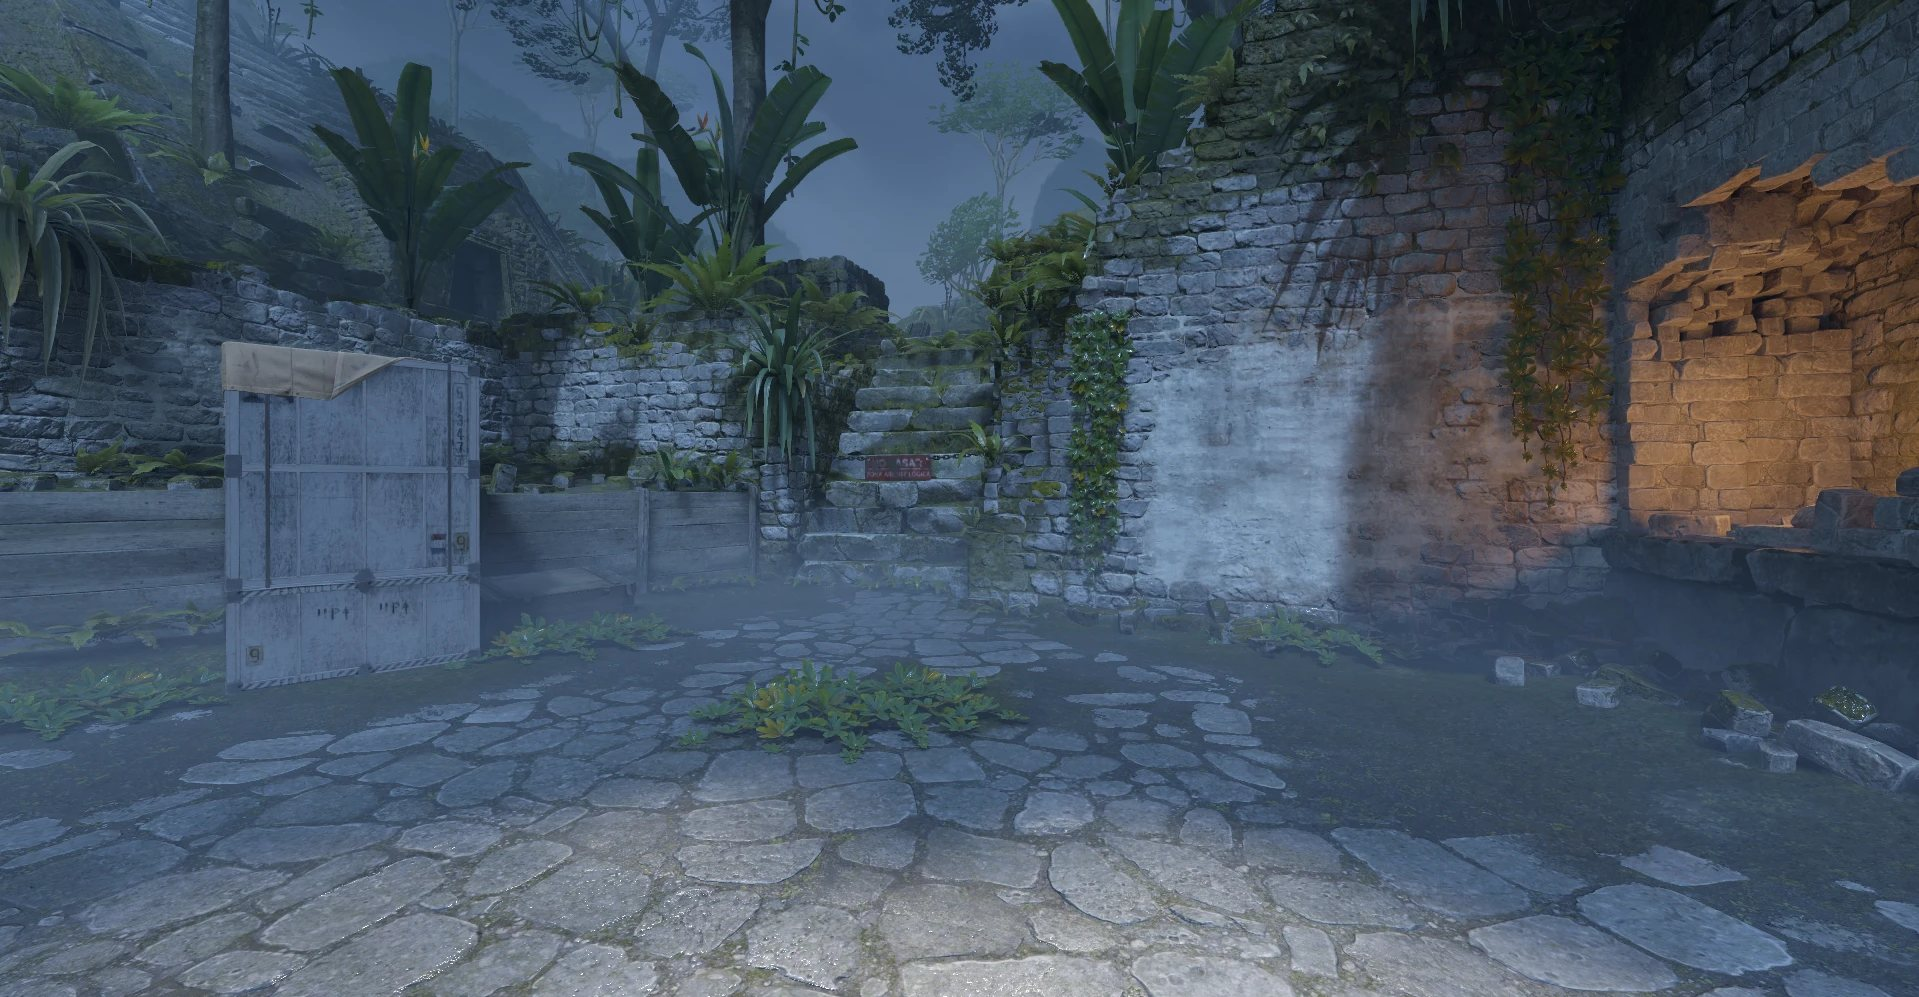
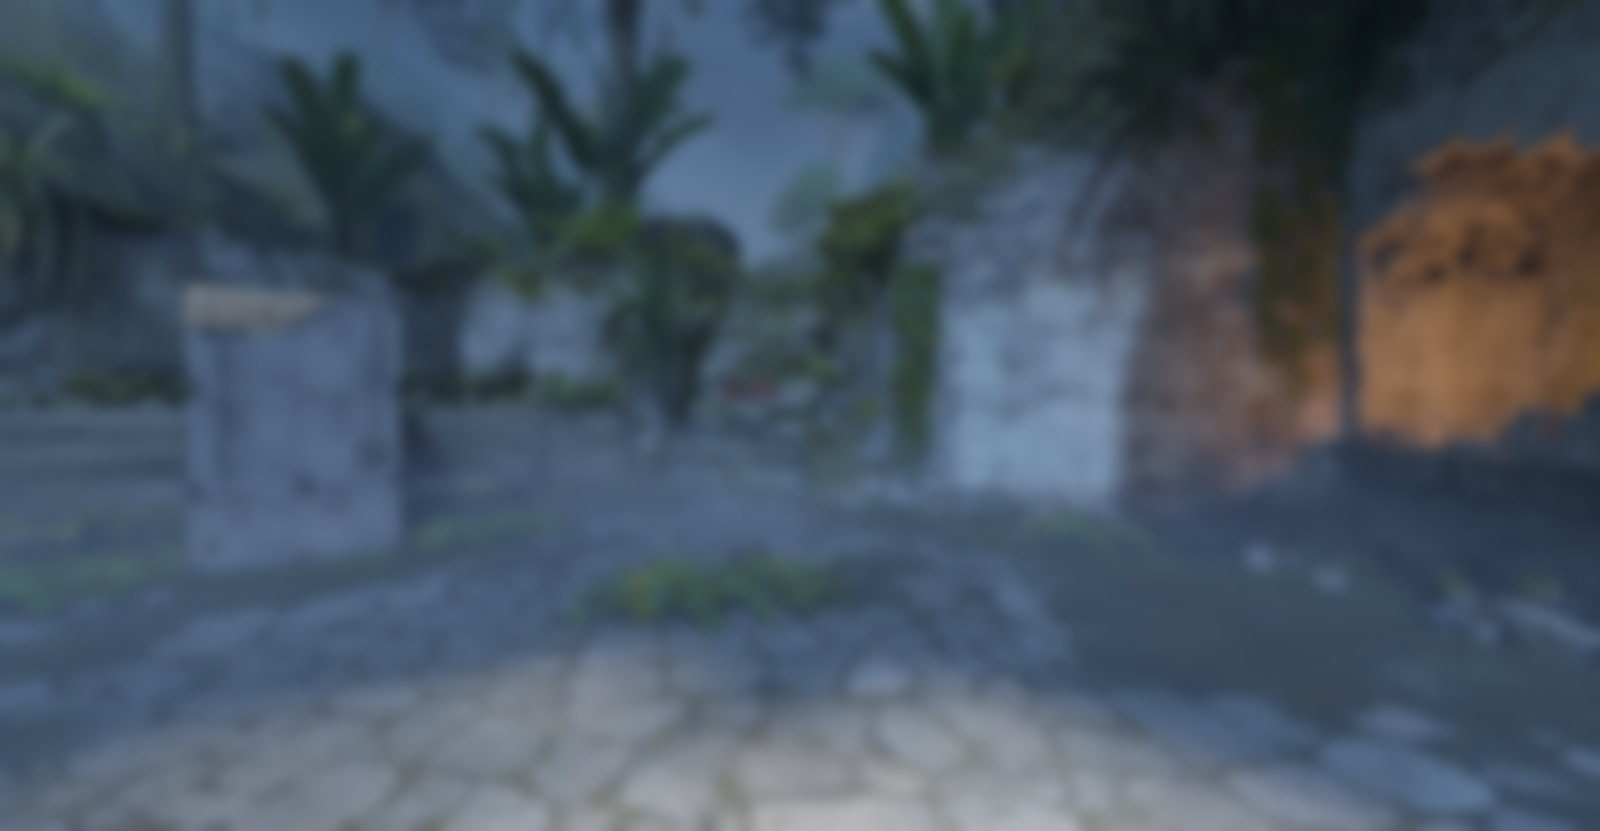
feat: stronger, smoother blur on the CS2 scene backdrops
The depth of field is now baked into the screenshots (Gaussian, radius 7 at
1600px) instead of asked of the shader: a mip bias strong enough to match the
game's out-of-focus backdrop starts reading as blocky. The shader adds only a
touch on top (0.8). The images also shrink from ~300 KB to ~60 KB each.

Claude-Session: https://claude.ai/code/session_01KszdDx9vMCMupoDZwYAo5V

diff --git a/src/viewerEnvironments.ts b/src/viewerEnvironments.ts
@@ -187,7 +187,9 @@ const CS2_LIGHT = {
  *
  * Each is a screenshot taken in game with the HUD off (the FPS counter and build
  * line cropped away), drawn behind the item and turned into its reflections —
- * see ViewerEnvironment.backdrop. The lamps start as the CS2 rig's; `tune`
+ * see ViewerEnvironment.backdrop. The depth of field is BAKED IN (Gaussian,
+ * radius 7 at 1600px): a mip bias strong enough to match the game's blur reads
+ * as blocky, so the shader only adds a touch on top. The lamps start as the CS2 rig's; `tune`
  * overrides them per scene, closed against in-game inspects in that scene.
  */
 const cs2Scene = (
@@ -204,7 +206,7 @@ const cs2Scene = (
   lighting: { ...CS2_LIGHT.lighting, ...tune.lighting },
   exposure: tune.exposure ?? CS2_LIGHT.exposure,
   colors: { ...CS2_LIGHT.colors, ...tune.colors },
-  backdrop: { image: bundled(image), blur: 2.2 },
+  backdrop: { image: bundled(image), blur: 0.8 },
 });
 
 export const VIEWER_ENVIRONMENTS: ViewerEnvironment[] = [
